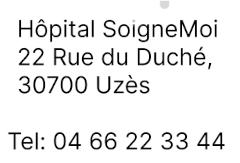
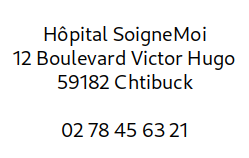
foncionnement avec un serveur LAMP - changement d'adresse

diff --git a/Secretariat/Details.py b/Secretariat/Details.py
@@ -8,6 +8,8 @@ class Details(tk.Toplevel):
     def __init__(self, fenetre, id):
         tk.Toplevel.__init__(self, fenetre) # Initialisation de la fenêtre Toplevel avec 'fenetre' comme parent.
         self.title(f"Patient N° {id}")
+        #self.url = 'http://127.0.0.1:5000/students' - table students - university
+        self.resizable(width=False, height=False) # bloquer le redimensionnement
         self.id = id
         self.listes_donnees = []
         # Cadre de l'application
@@ -15,7 +17,7 @@ class Details(tk.Toplevel):
         frame.pack()
         
         # Créer une zone de texte
-        self.zone_de_texte = tk.Text(frame, height=40, width=100)  # Assurez-vous que le widget est placé dans le Toplevel, pas dans 'fenetre'
+        self.zone_de_texte = tk.Text(frame, height=30, width=100)  # Assurez-vous que le widget est placé dans le Toplevel, pas dans 'fenetre'
         self.zone_de_texte.grid(row=0, column=0, sticky='nsew', padx=10, pady=10)
         # Créer une scrollbar et l'attacher à la zone de texte
         scrollbar = ttk.Scrollbar(frame, orient='vertical', command=self.zone_de_texte.yview)  # 'self' au lieu de 'fenetre'
@@ -29,7 +31,7 @@ class Details(tk.Toplevel):
     
     def recuperation_donnees(self, id):
 
-        url_complete = f"http://127.0.0.1:8082/details/{id}"
+        url_complete = f"http://localhost/slim-secretariat-web/details/{id}"
         response = requests.get(url_complete)
         if response.status_code == 200:
             # Transformer le format json en listes
@@ -48,7 +50,8 @@ class Details(tk.Toplevel):
             
             for dictionnaire in (self.liste_donnees[i]):
                 for cle, valeur in dictionnaire.items():
-                    self.zone_de_texte.insert(tk.END, f"'{cle}': '{valeur}' \n", "normal")
+                    self.zone_de_texte.insert(tk.END, f"{cle}: ", "gras")
+                    self.zone_de_texte.insert(tk.END, f"{valeur} \n", "normal")
             self.zone_de_texte.insert(tk.END, "\n")
             
 # --------------------------------------------------------------------------------------------------        
@@ -58,6 +61,6 @@ if __name__ == "__main__":
     root.title("fenêtre")
     root.resizable(width=False,height=False)
     details = Details(root, 4)
-    details.recuperation_donnees("http://localhost:8082/")
+    details.recuperation_donnees(1)
     root.mainloop()
         

diff --git a/Secretariat/Tableau.py b/Secretariat/Tableau.py
@@ -12,7 +12,9 @@ class Tableau(tk.Toplevel):
     def __init__(self, fenetre, titre_fenetre): # self: fenêtre tkToplevel - fenetre: fenetre mère - titre de la fenêtre)
         tk.Toplevel.__init__(self, fenetre) # Initialisation de la fenetrte parente
         self.title(titre_fenetre)
-        self.geometry("700x400")  # Dimensions de la fenêtrefenetre_application("Fenêtre Secondaire")
+        self.resizable(width=False, height=False) # bloquer le redimensionnement
+        self.geometry("700x300")  # Dimensions de la fenêtrefenetre_application("Fenêtre Secondaire")
+        #self(width=False,height=False)
         self.liste_patients = []
         self.id_selectionne = None  # permet de récupéer l'ID sélectionnée au clic sur la ligne
         ## Tableau Triview
@@ -90,10 +92,9 @@ class Tableau(tk.Toplevel):
 
 if __name__ == '__main__':       
     root = tk.Tk()
-    root.title("fenêtre principale")
-    root.resizable(width=False,height=False)
-    tableau = Tableau(root, "fenêtre")
-    tableau.recuperation_donnees('http://127.0.0.1:8082/tous')
+    root.title("fenêtre mère")
+    tableau = Tableau(root, "TopLevel")
+    tableau.recuperation_donnees('http://127.0.0.1/slim-secretariat-web/tous')
     tableau.affichage_tableau()
     tableau.habillage_tableau()
     root.mainloop()

diff --git a/Secretariat/Interface_graphique.py b/Secretariat/Interface_graphique.py
@@ -31,19 +31,20 @@ class Interface_graphique (tk.Tk):
        
     def tous(self):
         self.tableau = Tableau(self, "Tous")
-        self.tableau.recuperation_donnees('http://localhost:8082/tous')
-        self.tableau.affichage_tableau()
-        self.tableau.habillage_tableau()
+        self.tableau.recuperation_donnees('http://localhost/slim-secretariat-web/tous')
+        self.affichage()
         
     def sorties(self):
         self.tableau = Tableau(self, "Sorties")
-        self.tableau.recuperation_donnees('http://localhost:8082/sorties')
-        self.tableau.affichage_tableau()
-        self.tableau.habillage_tableau()
+        self.tableau.recuperation_donnees('http://localhost/slim-secretariat-web/sorties')
+        self.affichage()
         
     def entrees(self):
         self.tableau = Tableau(self, "Entrées")
-        self.tableau.recuperation_donnees('http://localhost:8082/entrees')
+        self.tableau.recuperation_donnees('http://localhost/slim-secretariat-web/entrees')
+        self.affichage()
+        
+    def affichage(self):
         self.tableau.affichage_tableau()
         self.tableau.habillage_tableau()
         

diff --git a/Secretariat/Frame_canevas.py b/Secretariat/Frame_canevas.py
@@ -15,7 +15,7 @@ class Frame_canevas(ttk.Frame):
         self.photo2 = self.creer_image("images/logo_120_120.png")
         # ajouter une photo au canevas
         self.canvas.create_image(390, 230, anchor='nw', image=self.photo2)
-        self.photo3 = self.creer_image("images/adresse_240_163.png")
+        self.photo3 = self.creer_image("images/adresse.png")
         # ajouter une photo au canevas
         self.canvas.create_image(330, 50, anchor='nw', image=self.photo3)
        

diff --git a/Secretariat/README.md b/Secretariat/README.md
@@ -1,15 +1,9 @@
 README.md
  
  ------------------------------------------------
-1 - lancer le programme le programme slim-secretariat après avoir lancé le serveur PHP:
-php -S localhost:8082
-2 - lancer le fichier Interface_graphique. 
-- Une action sur le bouton "tous" affiche "tous" sur le terminal
-- Une action sur le bouton "sorties" affiche sur le terminal
-- une action sur le bouton "Entrees" affiche dans un tableau les valeurs de la base de données à (url "http://localhost:8082/tableau)
-- una action sur l'une des lignes du tableau renvoie le numéro de la ligne et stocke la valeur dans une variable self.numero_ligne
+1 - lancer le programme le programme slim-secretariat:
+    localhost/slim-secretariat-web/accueil
+2 - lancer le fichier Interface_graphique:
+    python3 Interfca_graphique
+3 - sélectionner votre choix avec les boutons
 
-source - tableau:
-https://stackoverflow.com/questions/75294027/why-is-my-tkinter-treeview-not-changing-colors
-
-# lancer les programmes en ligne de commande, en cas de soucis.
